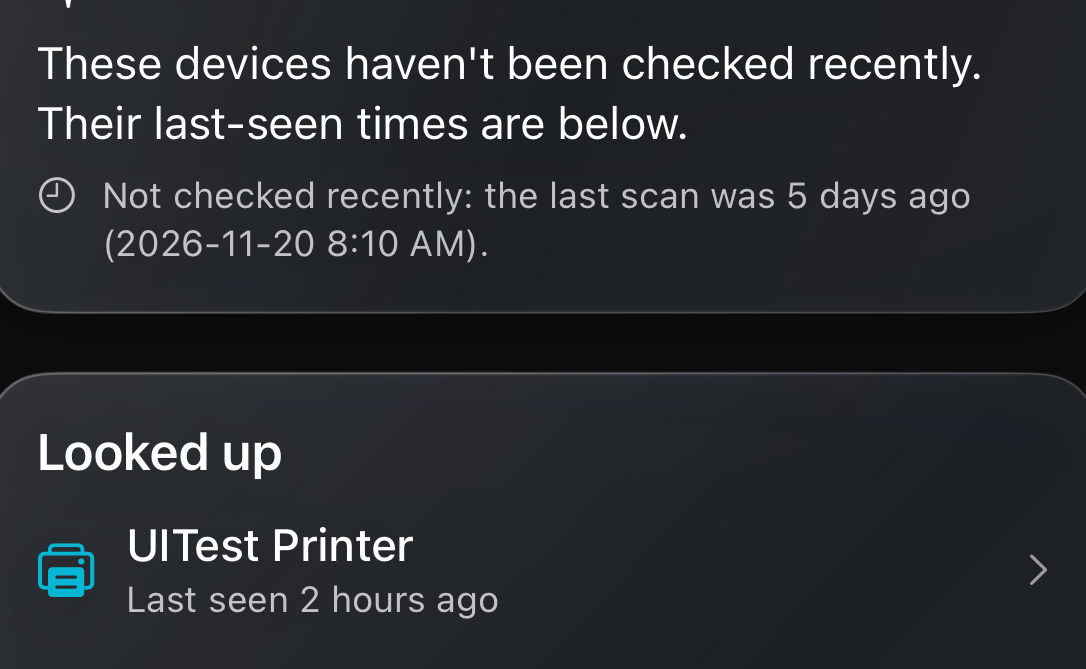
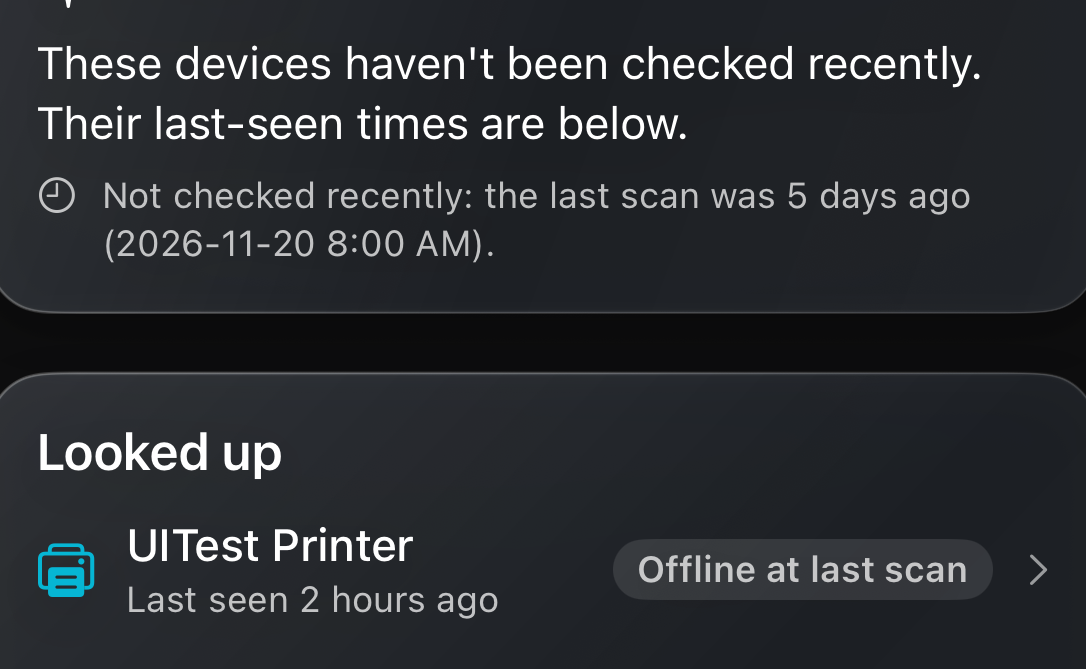
evidence(#452): app-owned presence (status chips, summary), probe rerun

Changed region(s): [[0.5773, 0.8072, 0.9116, 0.867], [0.3343, 0.3288, 0.4558, 0.3886]]

diff --git a/probe-580/Sources/Probe/main.swift b/probe-580/Sources/Probe/main.swift
@@ -60,7 +60,8 @@ for (label, snap, qs) in [("FRESH (scan 3 min ago)", snapshot, questions), ("STA
     print("\n=== \(q)")
     let a = await AskNetwork.answer(q, snapshot: snap, pinnedDeviceID: nil, model: Logging())
     print(String(format: "  %.2f s", Date().timeIntervalSince(t0)))
-    print("  SHOWN: \(a.shownText)  [grounded: \(a.text != nil)]")
+    print("  SHOWN: \(a.shownText)  [model text kept: \(a.text != nil)]")
+    print("  STATUSES: \(a.devices.map { "\($0.name)=\($0.presence.label)" })")
     print("  FRESHNESS LINE: \(a.freshness ?? "-")")
     print("  cites devices: \(a.devices.map(\.name)) events: \(a.events.map(\.title))")
   }
